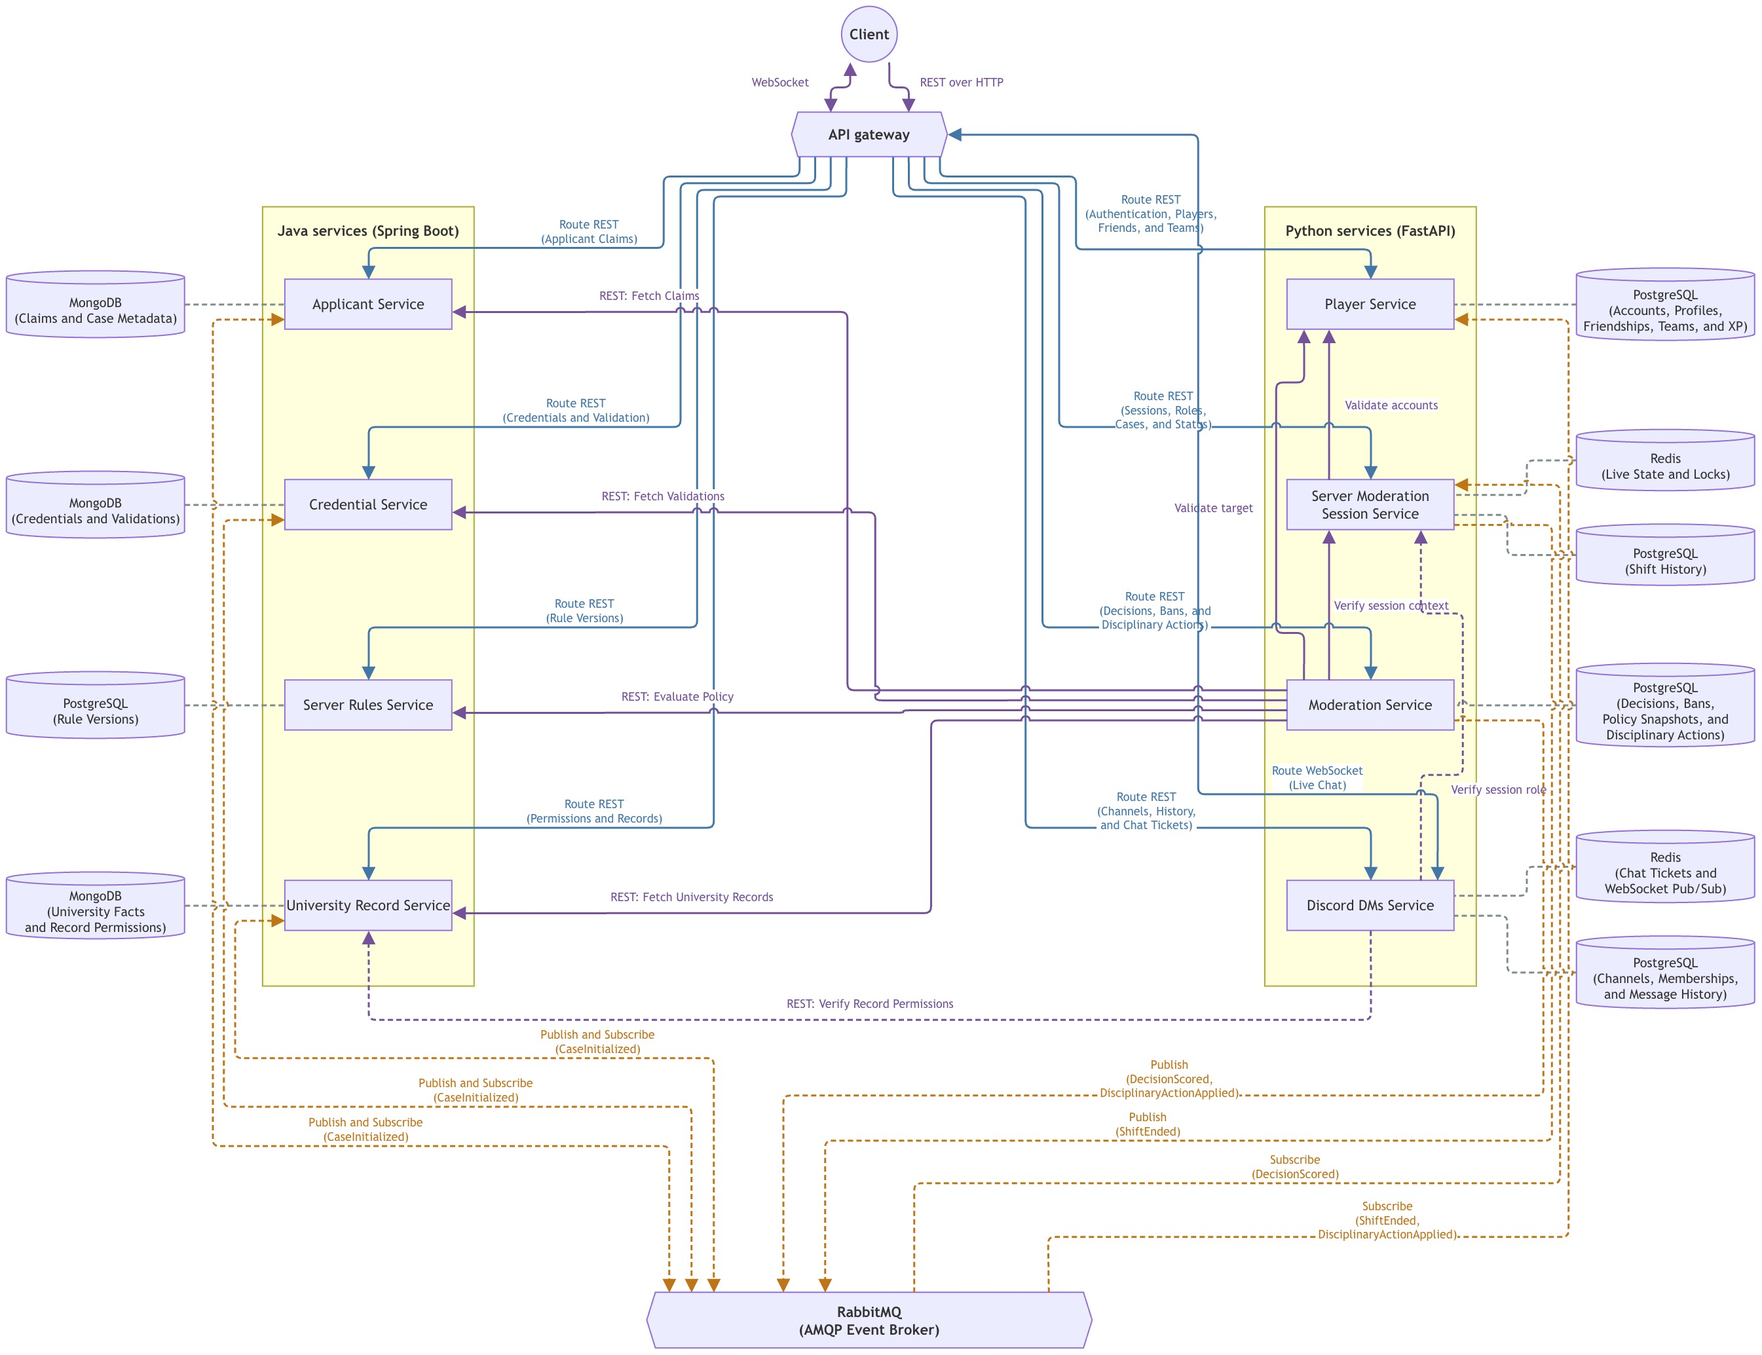
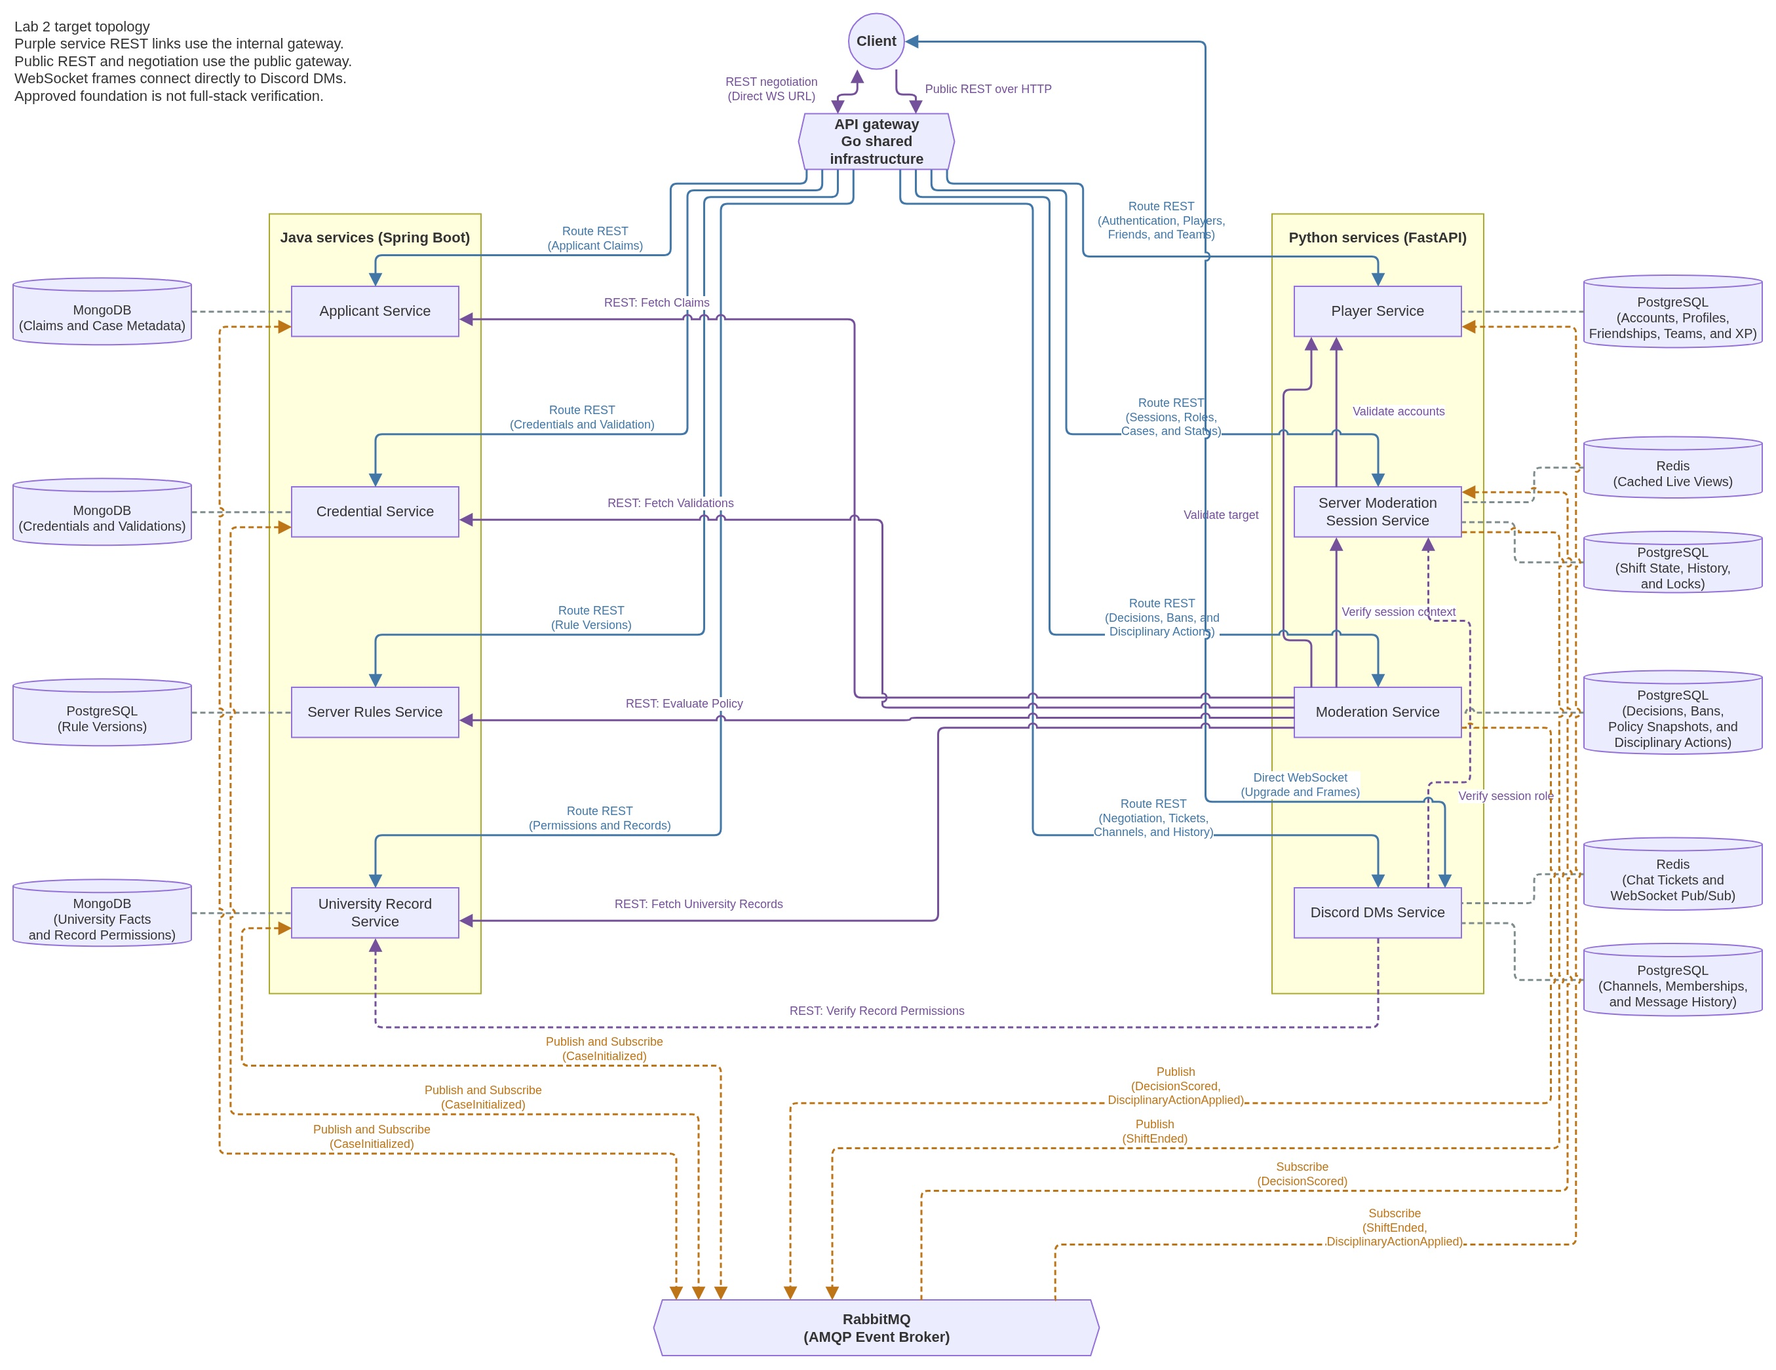
docs(lab-2): document gateway negotiation and direct chat

diff --git a/docs/architecture.md b/docs/architecture.md
@@ -2,7 +2,7 @@
 
 The game separates player progression, shift coordination, evidence, admission policy, and chat. Each service owns its storage. Other services use its APIs or events instead of reading its database.
 
-The [architecture diagram](architecture.jpg) shows the main connections. [Game flows](flows.md) describe the request and event sequences. [Integration principles](integration.md) explain how mocks and real peers use these contracts.
+The [architecture diagram](architecture.jpg) shows the Lab 2 target connections, not a verified deployment. Its [editable source](architecture.drawio) retains the embedded Mermaid definition and the drawio layout. [Rendering instructions](architecture-rendering.md) reproduce the JPEG without the team's shared browser. [Game flows](flows.md) describe the request and event sequences. [Integration principles](integration.md) explain how mocks and real peers use these contracts.
 
 ## Service ownership
 
@@ -17,7 +17,22 @@ The [architecture diagram](architecture.jpg) shows the main connections. [Game f
 | Moderation        | Final decisions, policy snapshots, subject bans, decision scores, and administrator disciplinary actions  | Source evidence, rule definitions, aggregate shift scores, or XP       |
 | Discord DMs       | Channels, membership, messages, chat tickets, and live delivery                                           | Accounts, shift roles, record permissions, or the truth of a message   |
 
-The gateway routes public REST requests and WebSocket upgrades. It is infrastructure, not a ninth domain service. Services still authorize requests after the gateway checks authentication. Internal endpoints are not public routes.
+The gateway is shared Go infrastructure, not a ninth domain service. In the Lab 2 target, its public listener routes client REST requests and realtime negotiation. Its internal listener routes service-to-service REST calls and is not publicly exposed. Services retain business authorization after the gateway verifies identity. Internal endpoints are not public routes.
+
+REST negotiation returns a direct Discord DMs WebSocket URL. The client sends the upgrade and subsequent chat frames directly to Discord DMs. The gateway does not relay frames or hold the live data connection. Discord DMs owns ticket consumption, permission checks, message persistence, and live delivery.
+
+## Gateway delivery status
+
+[Foundation PR #2](https://github.com/ChillGuysStudio/gateway-service/pull/2) at `9d298ab9c161bb039196317466ed362e2817aafb` has MaxNoragami's formal approval and is squash-merged to gateway `dev` at `03c4dcf99b1b619f96ee52aaa6a43650cfb856c3`. It adds public and internal listeners, process health, JSON errors, request IDs, HTTP transport limits, graceful shutdown, and a static non-root container. Unknown application routes fail closed. Process health does not prove peer readiness.
+
+The target topology still depends on separately owned work:
+
+- Tirppy owns [identity and delegation](https://github.com/ChillGuysStudio/student-id-please/issues/88), with caller and receiver owners agreeing the exact contract before migration.
+- mcittkmims is the proposed owner of the separate [routing module](https://github.com/ChillGuysStudio/student-id-please/issues/75). Owner acknowledgement is still pending.
+- MaxNoragami owns [application task limits and native image publication](https://github.com/ChillGuysStudio/student-id-please/issues/87).
+- andyp1xe1 owns the foundation and Discord DMs integration for [realtime negotiation](https://github.com/ChillGuysStudio/student-id-please/issues/78).
+
+The foundation approval does not verify these integrations, a published gateway image, or a running full stack. The current [Compose configuration](../compose.yaml) still exposes localhost service APIs without gateway wiring. Existing service authentication contracts describe the direct-mode baseline. The Lab 2 target validates client tokens at the gateway and removes raw downstream `Authorization`; the exact assertion and delegation schema remains under owner coordination.
 
 ## Storage
 
@@ -40,8 +55,9 @@ MongoDB case operations use local transactions and require a replica set. Postgr
 
 | Caller or producer                    | Receiver or consumer                     | Purpose                                                                            |
 | ------------------------------------- | ---------------------------------------- | ---------------------------------------------------------------------------------- |
-| Client through gateway                | Public services                          | Authenticated commands and permitted reads over REST                               |
-| Client through gateway                | Discord DMs                              | WebSocket chat                                                                     |
+| Client through public gateway         | Public services                          | Public REST commands and permitted reads, including Player authentication          |
+| Client through public gateway         | Discord DMs                              | REST realtime negotiation, chat tickets, channels, and history                     |
+| Client directly                       | Discord DMs                              | WebSocket upgrade and live chat frames after negotiation                           |
 | Session                               | Player                                   | Check players and team membership                                                  |
 | Session                               | Server Rules, University Record          | Pin policy, validate permission distribution, and create a reference snapshot      |
 | Session                               | Applicant, Credential, University Record | Select one initializer and poll all three owners for readiness                     |
@@ -58,6 +74,8 @@ MongoDB case operations use local transactions and require a replica set. Postgr
 | Moderation                            | Player                                   | Apply `DisciplinaryActionApplied` once                                             |
 
 [HTTP conventions](contracts/http.md), [service APIs](contracts/api.md), and [RabbitMQ events](contracts/events.md) define the request and payload details.
+
+This map describes the Lab 2 target. Every service-to-service REST row uses the internal gateway while retaining the named logical caller and receiver. The diagram's purple service REST edges use that same convention. RabbitMQ events and direct WebSocket frames do not pass through the gateway. These paths remain unverified as a complete deployment.
 
 ## Data and consistency
 
@@ -76,6 +94,8 @@ Reusable reference data and presets can change through administrative CRUD. Shif
 Player, Session, Moderation, and Discord DMs use Python and FastAPI. Their work is mostly HTTP, storage, or live delivery. Blocking clients must not run on the WebSocket event loop.
 
 Applicant, Credential, Server Rules, and University Record use Java and Spring Boot. Typed models and validation fit their evidence and policy operations. Maintaining two stacks adds tooling, but the coursework requires two languages.
+
+The shared gateway uses Go for HTTP listeners, request routing, identity verification, and task admission. It owns no domain database.
 
 PostgreSQL fits relational state and transaction constraints. MongoDB fits the varied evidence and reference record types. Both stores still enforce the shared contract.
 

diff --git a/docs/architecture-rendering.md b/docs/architecture-rendering.md
@@ -1,0 +1,69 @@
+# Render the architecture diagram
+
+`architecture.drawio` contains both the editable layout and an embedded Mermaid definition. Keep their labels and connections consistent when editing. Render the drawio layout to preserve the established geometry, colors, and edge routing.
+
+The export below uses draw.io's renderer in a separate headless Chrome process. It does not use the team's authenticated browser. Requirements are Git, Node.js, npm, and Google Chrome at `/usr/bin/google-chrome`.
+
+1. Check that `/tmp/opencode` exists. Install the temporary renderer at the pinned source revision:
+
+	```sh
+	git clone --filter=blob:none --no-checkout https://github.com/jgraph/drawio.git /tmp/opencode/cpr-diagram-render
+	git -C /tmp/opencode/cpr-diagram-render sparse-checkout init --cone
+	git -C /tmp/opencode/cpr-diagram-render sparse-checkout set src/main/webapp
+	git -C /tmp/opencode/cpr-diagram-render checkout 96f8c7acb719aa93f0108eecedf20c3afdcbe431
+	npm install --prefix /tmp/opencode/cpr-diagram-render --no-save --package-lock=false puppeteer-core@24.25.0
+	```
+
+2. From the CPR root, run this export. It reads the XML, blocks network requests, and writes `docs/architecture.jpg` at scale 1 with a 10-pixel border and JPEG quality 95:
+
+	```sh
+	node <<'JS'
+	const fs = require('node:fs');
+	const { pathToFileURL } = require('node:url');
+	const renderer = '/tmp/opencode/cpr-diagram-render';
+	const puppeteer = require(`${renderer}/node_modules/puppeteer-core`);
+	(async () => {
+		const browser = await puppeteer.launch({
+			executablePath: '/usr/bin/google-chrome',
+			headless: true,
+			args: ['--no-sandbox', '--disable-dev-shm-usage', '--allow-file-access-from-files'],
+		});
+		try {
+			const page = await browser.newPage();
+			await page.setViewport({ width: 3000, height: 2300, deviceScaleFactor: 1 });
+			await page.emulateMediaFeatures([{ name: 'prefers-color-scheme', value: 'light' }]);
+			await page.setRequestInterception(true);
+			page.on('request', request => {
+				if (/^(file:|data:)/.test(request.url())) request.continue();
+				else request.abort();
+			});
+			await page.goto(pathToFileURL(`${renderer}/src/main/webapp/export3.html`).href,
+				{ waitUntil: 'load' });
+			await page.waitForFunction(() => typeof render === 'function' && typeof Graph === 'function');
+			await page.evaluate(xml => {
+				render({ xml, format: 'jpg', scale: '1', border: '10',
+					bg: '#ffffff', theme: 'light', shadows: '0' });
+			}, fs.readFileSync('docs/architecture.drawio', 'utf8'));
+			await page.waitForFunction(() => document.querySelector('#LoadingComplete'));
+			const bounds = await page.evaluate(() =>
+				JSON.parse(document.querySelector('#LoadingComplete').getAttribute('bounds')));
+			const clip = { x: 0, y: 0, width: Math.ceil(bounds.x + bounds.width),
+				height: Math.ceil(bounds.y + bounds.height) };
+			await page.setViewport({ width: clip.width, height: clip.height, deviceScaleFactor: 1 });
+			await page.screenshot({ path: 'docs/architecture.jpg', type: 'jpeg', quality: 95, clip });
+			console.log(clip);
+		} finally {
+			await browser.close();
+		}
+	})().catch(error => { console.error(error); process.exitCode = 1; });
+	JS
+	```
+
+3. Open the JPEG and check the labels, arrow endpoints, and clipping. Fonts follow the diagram's font stack and the installed system fonts, so another host can produce different text wrapping. This revision renders at 2710 by 2091 pixels.
+4. Run the CPR checks:
+
+	```sh
+	PYTHONDONTWRITEBYTECODE=1 python3 -m unittest discover -s tests -v
+	python3 .github/scripts/check_docs.py
+	git diff --check
+	```

diff --git a/docs/contracts/http.md b/docs/contracts/http.md
@@ -4,7 +4,9 @@ These conventions apply to service calls in mocked and integrated deployments. [
 
 ## Paths and data types
 
-Public gateway paths start with `/api/v1`. Internal paths start with `/internal/v1`, and the gateway does not expose them. Each endpoint belongs to the service named in its section.
+Public gateway paths start with `/api/v1`. Internal paths start with `/internal/v1`, and the public gateway listener does not expose them. In the Lab 2 target, the internal gateway listener routes service-to-service REST. Each endpoint belongs to the service named in its section.
+
+Realtime negotiation uses gateway REST. The returned direct Discord DMs URL carries the WebSocket upgrade and frames, even though its path starts with `/api/v1`. See the [target interaction map and delivery status](../architecture.md).
 
 Requests and non-empty responses use `application/json`. Field names use `snake_case`. Services serialize UUIDs in canonical lowercase hyphenated form before comparison or deterministic generation.
 
@@ -20,6 +22,8 @@ Requests and non-empty responses use `application/json`. Field names use `snake_
 `T | null` means that the field is required but can contain `null`. All other fields are required. Scores can be negative. Counts cannot be negative. The objects below use type notation, not JSON syntax.
 
 ## Authentication and authorization
+
+The authentication details below describe the direct-mode baseline. The Lab 2 target verifies client identity at the gateway and removes raw downstream `Authorization`. Tirppy and the caller and receiver owners are coordinating the exact assertion and delegation contract. The [gateway foundation approval](../architecture.md#gateway-delivery-status) does not establish receiver compatibility with that target.
 
 Clients authenticate with `Authorization: Bearer <access_token>`. The Player Service issues tokens. Each service verifies the token signature, issuer, audience, and expiry. Access tokens expire after 15 minutes. Refresh tokens expire after 7 days. The Player Service stores refresh-token hashes, rotates refresh tokens after use, and revokes the refresh session on logout.
 

diff --git a/README.md b/README.md
@@ -6,11 +6,19 @@ The Common Project Repository, or CPR, contains the shared design, integration c
 
 ## Architecture
 
-Eight domain services own separate data. They communicate through REST, RabbitMQ events, and WebSocket chat. The gateway routes client requests and does not own game data.
+Eight domain services own separate data. They communicate through REST, RabbitMQ events, and WebSocket chat. The diagram shows the Lab 2 target topology.
 
 <img src="docs/architecture.jpg" alt="Architecture diagram" width="1080"/>
 
 [Architecture](docs/architecture.md) explains ownership and technology choices. [Game flows](docs/flows.md) describe a shift. [Integration principles](docs/integration.md) explain mocked and integrated deployments.
+
+## Gateway
+
+The selected gateway is shared Go infrastructure, separate from the eight domain services. In the Lab 2 target, clients send public REST requests through its public listener. Service-to-service REST uses its internal listener, which is not publicly exposed. The gateway validates client identity, routes requests, and bounds task duration and concurrency. Domain services retain business authorization and data ownership.
+
+Realtime negotiation uses REST through the gateway and returns a direct Discord DMs WebSocket URL. Clients connect to Discord DMs for the upgrade and chat frames. The gateway does not relay frames. Chat tickets, permissions, Redis delivery, and stored history belong to Discord DMs.
+
+[Gateway foundation PR #2](https://github.com/ChillGuysStudio/gateway-service/pull/2) at `9d298ab` has MaxNoragami's formal approval for listeners, process health, transport limits, graceful shutdown, and the container foundation. Identity and routing have separate owners, and application limits, realtime integration, and image publication remain follow-up work. A published gateway image and a running full stack are not yet verified. [Gateway delivery status](docs/architecture.md#gateway-delivery-status) records the scope and dependencies.
 
 ## Team and services
 

diff --git a/docs/services/README.md b/docs/services/README.md
@@ -11,4 +11,6 @@
 | Moderation | `sentientmoss/pad-moderation-service` | `8008` | [Moderation](README.moderation.md) |
 | Discord DMs | `sentientmoss/pad-discord-dms-service` | `8009` | [Discord DMs](README.discord-dms.md) |
 
-The [Compose configuration](../../compose.yaml) binds these ports to localhost. Database and broker ports stay on the container network. The gateway is separate infrastructure.
+The current [Compose configuration](../../compose.yaml) binds these service ports to localhost and does not yet wire the gateway. Database and broker ports stay on the container network.
+
+The Lab 2 target uses shared Go gateway infrastructure for public REST, REST realtime negotiation, and internal service-to-service REST. After negotiation, clients connect directly to Discord DMs for the WebSocket upgrade and frames. The gateway owns no domain data. The [interaction map](../architecture.md#communication) shows logical callers and receivers, and [gateway delivery status](../architecture.md#gateway-delivery-status) distinguishes the approved foundation from pending integration and image verification.

diff --git a/docs/services/README.discord-dms.md b/docs/services/README.discord-dms.md
@@ -18,7 +18,9 @@ Redis holds tickets and delivery notifications. PostgreSQL holds authoritative h
 
 Mocked authorization uses role and permission fixtures. Integrated authorization reads both owners and denies access when either check fails.
 
-The gateway forwards WebSocket upgrades and redacts ticket query parameters. Message persistence precedes acknowledgement and broadcast.
+In the Lab 2 target, clients negotiate realtime access through REST on the gateway and receive a direct Discord DMs WebSocket URL. Discord DMs consumes the ticket on the direct upgrade and carries all chat frames. The gateway does not relay the live connection. Discord DMs redacts ticket query parameters, and message persistence precedes acknowledgement and broadcast.
+
+Clients request new tickets and recover history through gateway REST routes. [Gateway delivery status](../architecture.md#gateway-delivery-status) tracks the pending negotiation and identity integration. Current direct-mode service behavior does not prove that integration.
 
 ## Configuration
 

diff --git a/docs/flows.md b/docs/flows.md
@@ -44,6 +44,8 @@ Player applies `max(0, score)` XP to each participant once per shift. Administra
 
 ## Recover chat
 
+In the Lab 2 target, the client negotiates realtime access through gateway REST and receives a direct Discord DMs WebSocket URL. The client connects directly to Discord DMs for the upgrade and frames. New tickets and history reads use gateway REST. [Gateway delivery status](architecture.md#gateway-delivery-status) distinguishes this target from the approved foundation.
+
 Discord DMs issues a single-use chat ticket with a 30-second lifetime. It stores each message before acknowledgement and broadcast. A retry with the same author and client message ID returns the original acknowledgement.
 
 Redis Pub/Sub delivers committed messages to connected replicas. It does not replay missed messages. After reconnecting with a new ticket, the client reads REST history and deduplicates by message ID.

diff --git a/docs/contracts/api.md b/docs/contracts/api.md
@@ -285,6 +285,8 @@ When different idempotency keys submit decisions at the same time, the first dec
 
 ## Discord DMs Service endpoints and WebSocket frames
 
+In the Lab 2 target, REST requests use the gateway, including realtime negotiation and chat-ticket issuance. Negotiation returns a direct Discord DMs WebSocket URL. The upgrade endpoint below is on that direct service connection, and the gateway does not relay frames. [Gateway delivery status](../architecture.md#gateway-delivery-status) records the pending integration. The negotiation response schema remains under owner coordination.
+
 ```text
 Channel = {channel_id: Id, session_id: Id, name: string, member_ids: Id[]}
 Message = {message_id: Id, client_message_id: Id, channel_id: Id,
